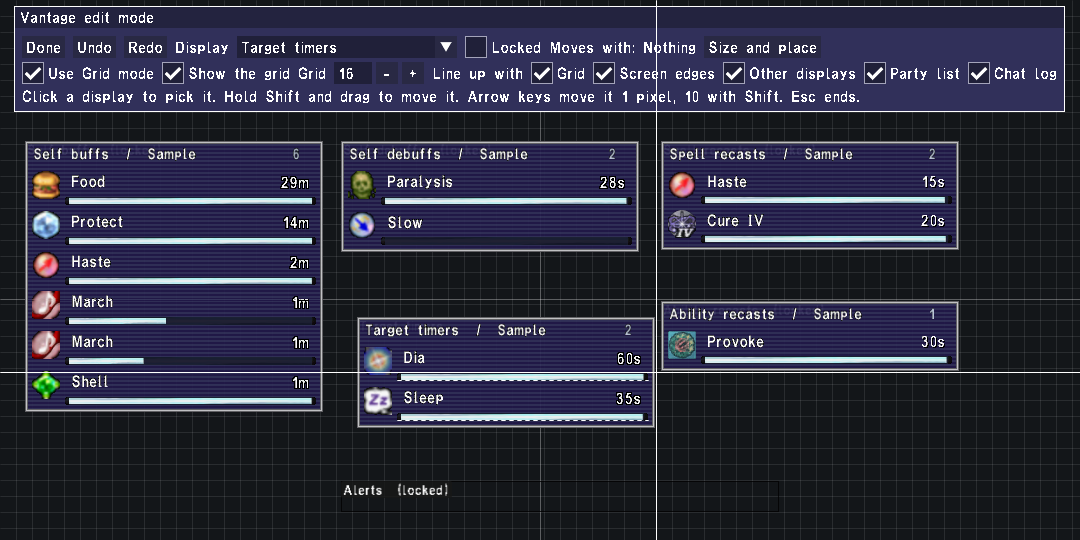
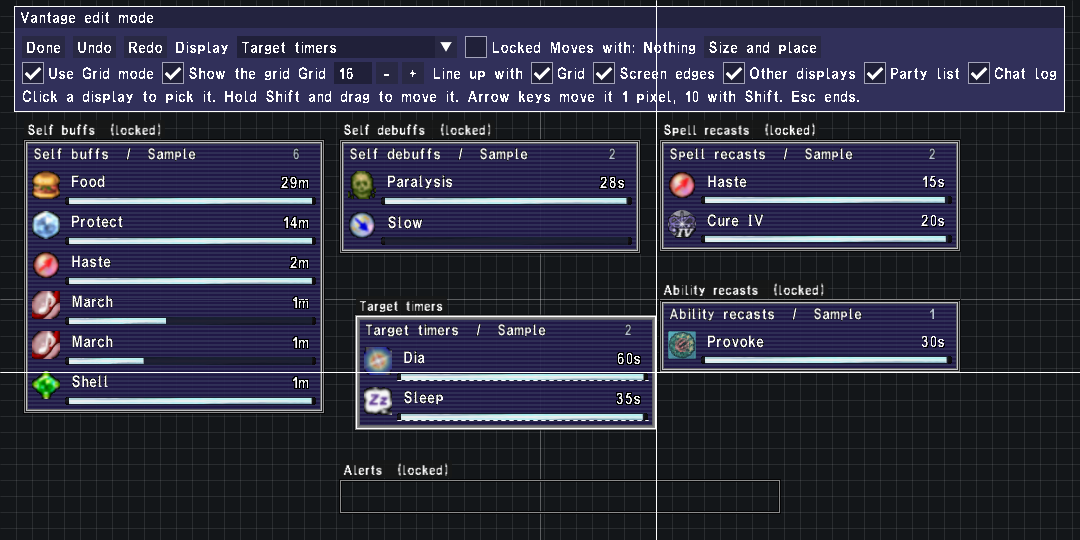
Fix edit mode name tags and eleven small bugs
Edit mode now draws each outline over its display, with the name just above it.

Also fixed:
- A Removed alert on Watched enemies now fires for your pet's debuffs.
- Import and replace for one display brings maps like the When to show zones over whole.
- Divider before it takes only the 20 characters the save keeps.
- An empty settings file counts as no settings.
- /vg reset and /vg copy take their words in any case.
- A sounds folder that can't be read at load is said in chat.
- The effect Color row's search words don't name a button it doesn't have.
- /vg report replaces an old report that isn't JSON anymore.
- A Windows user name made only of digits no longer blocks exports.
- The import preview handles a setting with a number key.
- A pet swap or zone change resets the level restriction check.

Also drops a dead test line and two stale comments.

diff --git a/docs/GUIDE.md b/docs/GUIDE.md
@@ -385,7 +385,7 @@ Vantage saves at most 128 learned times in each character's settings file. **Cle
 
 ## Edit mode
 
-**Edit mode** lets you place every display at once. Turn it on with `/vg edit` or **Edit mode** under **Moving** on the main page. Every display on the screen gets an outline with its name. A bar at the top of the screen holds the one you pick. Overhead icons sit over heads in the world, so they aren't in edit mode. A display that's off has no outline until you turn it on. In edit mode, a display shows even when it's empty, out of combat, while you type, or where its **When to show** choices would hide it. That way you can place it. The bar says when those choices would hide it.
+**Edit mode** lets you place every display at once. Turn it on with `/vg edit` or **Edit mode** under **Moving** on the main page. Every display on the screen gets an outline, with its name just above it. A bar at the top of the screen holds the one you pick. Overhead icons sit over heads in the world, so they aren't in edit mode. A display that's off has no outline until you turn it on. In edit mode, a display shows even when it's empty, out of combat, while you type, or where its **When to show** choices would hide it. That way you can place it. The bar says when those choices would hide it.
 
 - Click a display to pick it. Hold Shift and drag to move it. It goes exactly where you drag it, unless Grid mode is on and the display is ticked for it.
 - **Grid mode** is under **Moving** on the main page, and it starts off. While it's on, **Grid and snapping** under it has **Tick the displays that snap:** and a tick box for each display that's on. None are ticked at first. Then come **Grid size**, **Show the grid**, the five **Snap to** switches and **Snap distance**. While Grid mode is on, the bar has **Use Grid mode** for the display you picked. It's the same tick as the display's own on the main page, and it works on a locked display too. The bar also has **Show the grid**, **Grid** and, after **Line up with**, the same five switches. Each tick and each turn of the switch is one Undo step. A display you turn off leaves the list but keeps its tick. Turn it on again and it shows ticked.
@@ -572,7 +572,7 @@ Every command also accepts `/vantage` in place of `/vg`. The setting command acc
 
 Turn on **Show samples** to tell a hidden or filtered panel from missing game data. Check that the panel is ticked on the main page, then look at its **Filters** tab and its **When to show** tab. A blank caster or an effect with no countdown is normal when Vantage didn't observe that information. If it's still wrong, `/vg report` saves what Vantage found to `reports/latest.json` in the settings folder.
 
-Settings are JSON, never executable Lua. Vantage keeps invalid existing JSON instead of writing over it, and reports it by file name. Keep a copy before you repair a damaged settings file, and save it as UTF-8. A byte order mark is fine, but Vantage can't read UTF-16, which Windows PowerShell 5.1 writes by default. Vantage reports disk or audio failures locally. A fresh reload starts with a quiet baseline. It can't recover old enemy applications that the client never sent to this session.
+Settings are JSON, never executable Lua. Vantage keeps invalid existing JSON instead of writing over it, and reports it by file name. An empty file counts as no settings, so Vantage starts from the defaults and saves over it. Keep a copy before you repair a damaged settings file, and save it as UTF-8. A byte order mark is fine, but Vantage can't read UTF-16, which Windows PowerShell 5.1 writes by default. Vantage reports disk or audio failures locally. A fresh reload starts with a quiet baseline. It can't recover old enemy applications that the client never sent to this session.
 
 ## After a game update
 
